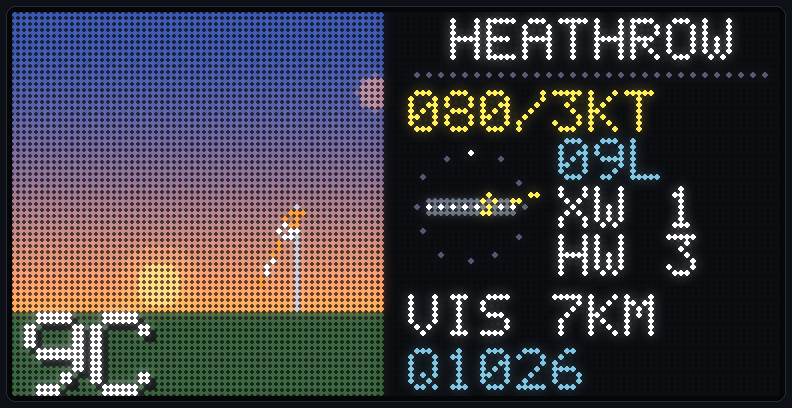
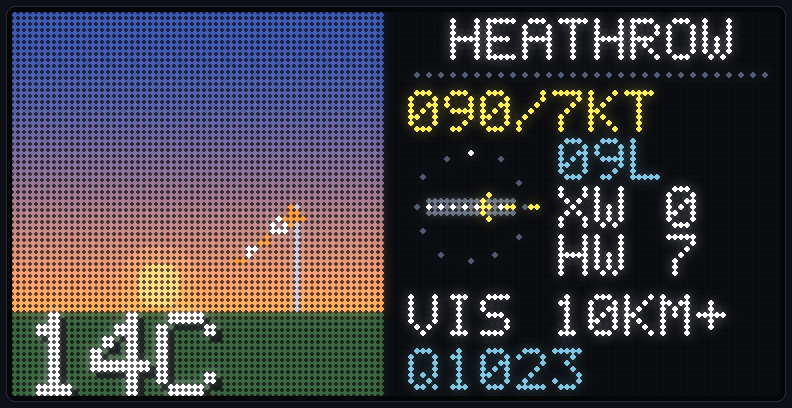
5.1.0: docs, screenshots, changelog
The showcase GIF and panel images re-recorded from the board (the map now
labelled), a map still and the aircraft page in the README, web page
shots, and the changelog dated.

diff --git a/tools/host_render.cpp b/tools/host_render.cpp
@@ -284,6 +284,11 @@ int main(int argc, char **argv)
         f.ident_iata = "EK1"; f.ident = "UAE1"; f.registration = "A6-EVB"; f.airline_display_name_full = "Emirates";
         f.origin.code_icao = "OMDB"; f.origin.code_iata = "DXB";
         InfoScreens::renderAircraft(c, f, AircraftSprites::airlineColour("EK"), 61, "27L", 2000);  save(c, "final_aircraft2");
+        // For the README: the showcase's GS101.
+        f.ident_iata = "GS101"; f.ident = "GSL101"; f.aircraft_code = "A35K"; f.aircraft_display_name_short = "A350-1000";
+        f.registration = "G-GSLP"; f.airline_display_name_full = "Glideslope"; f.seen_days = 14;
+        f.origin.code_icao = "KJFK"; f.origin.code_iata = "JFK";
+        InfoScreens::renderAircraft(c, f, Rgb{255, 185, 60}, 95, "27L", 2000);                    save(c, "docs_final_aircraft");
     }
 
     // The landing scene through the year.

diff --git a/tools/record_shots.py b/tools/record_shots.py
@@ -31,7 +31,7 @@ DOCS = ROOT / 'docs'
 
 # Showcase times (s), matching NeoMatrixDisplay::stepShowcase.
 CLIPS = {'flyacross.gif': (0.0, 2.4), 'landing.gif': (9.0, 12.6), 'takeoff.gif': (44.5, 47.9)}
-STILLS = {'globe.png': 19.5, 'arrivals.png': 29.0, 'weather.png': 34.0, 'stats.png': 39.3, 'holding.png': 43.5}
+STILLS = {'globe.png': 19.5, 'map.png': 23.0, 'arrivals.png': 29.0, 'weather.png': 34.0, 'stats.png': 39.3, 'holding.png': 43.5}
 
 
 def save_gif(frames, path, fps=20):

diff --git a/CHANGELOG.md b/CHANGELOG.md
@@ -7,7 +7,7 @@ web page (`firmware.bin`) keep your settings. Release files are on the
 There is no 3.0: the features planned for it (living sky, holding stacks,
 phone alerts) were finished alongside 4.0's and shipped together as 4.0.0.
 
-## 5.1.0 (in progress)
+## 5.1.0 (19 Oct 2026)
 
 **New**
 - **Map**: flight numbers beside the aircraft, a spotlight cycling through
@@ -19,11 +19,17 @@ phone alerts) were finished alongside 4.0's and shipped together as 4.0.0.
 - The departures board with city names ran a long city into the time;
   the weather screen drew gusts over the wind. Both found by the new
   screen tests.
-- Firmware uploads pause the feed so they can't stall.
-- The flight feed could stay down for up to 25 minutes: the stats save
-  closed the feed's connection for room, and on a fragmented heap it
-  could not reopen. The save no longer closes it, and if the feed can't
-  reopen with plenty free, the board saves its stats and restarts.
+- Firmware uploads wait for the feed to pause, so they don't stall.
+- **The flight feed no longer drops out.** Under busy traffic (5.0.0 too)
+  the board restarted every 10-15 minutes: whenever the feed's HTTPS
+  connection was closed (for the weather, every 10 minutes) the heap was
+  too broken up to open it again. A TLS arena now keeps room for the
+  connection's two 16 KB buffers from start-up; the two aircraft lists take
+  turns instead of a new one every 5 seconds; a fetch is no longer skipped
+  for room the list already has; the stats save never closes the feed;
+  and if the feed still can't reopen, the board saves its stats and
+  restarts in seconds. Soak: 47 minutes, no restarts, the feed back after
+  every weather update.
 - The route globe zooms in on short routes, and has no blue rim.
 - Crash reports say whether the dump came from the running build.
 - Web requests: Content-Length without a space after the colon, and query

diff --git a/README.md b/README.md
@@ -45,6 +45,10 @@ repository (see [Airline logos](#airline-logos)).
 | --- | --- |
 | ![Holding stacks](docs/holding.png) | ![Squawk alert](docs/squawk.png) |
 
+| Map, with flight numbers and the spotlight | More on final: the aircraft |
+| --- | --- |
+| ![The map: flight numbers beside the aircraft, trails, and the spotlight's bar](docs/map.png) | ![On final: the aircraft page between the card's turns](docs/final-aircraft.png) |
+
 | Route globe | Overhead |
 | --- | --- |
 | ![The route globe: New York to London, the night side shaded](docs/globe.png) | ![An A380 overhead at 37,000 ft with contrails](docs/overhead.png) |
@@ -53,8 +57,8 @@ repository (see [Airline logos](#airline-logos)).
 | --- | --- |
 | ![Today's busiest airlines in their colours](docs/stats-airlines.png) | ![Today's commonest aircraft types](docs/stats-types.png) |
 
-The overhead pass, the top airlines and types pages and the fireworks
-below are drawn by the firmware's own code on a desktop
+The overhead pass, the aircraft page, the top airlines and types pages and
+the fireworks below are drawn by the firmware's own code on a desktop
 (`tools/host_build.py render`), with a made-up day of traffic; the rest
 are the board's own frames.
 
